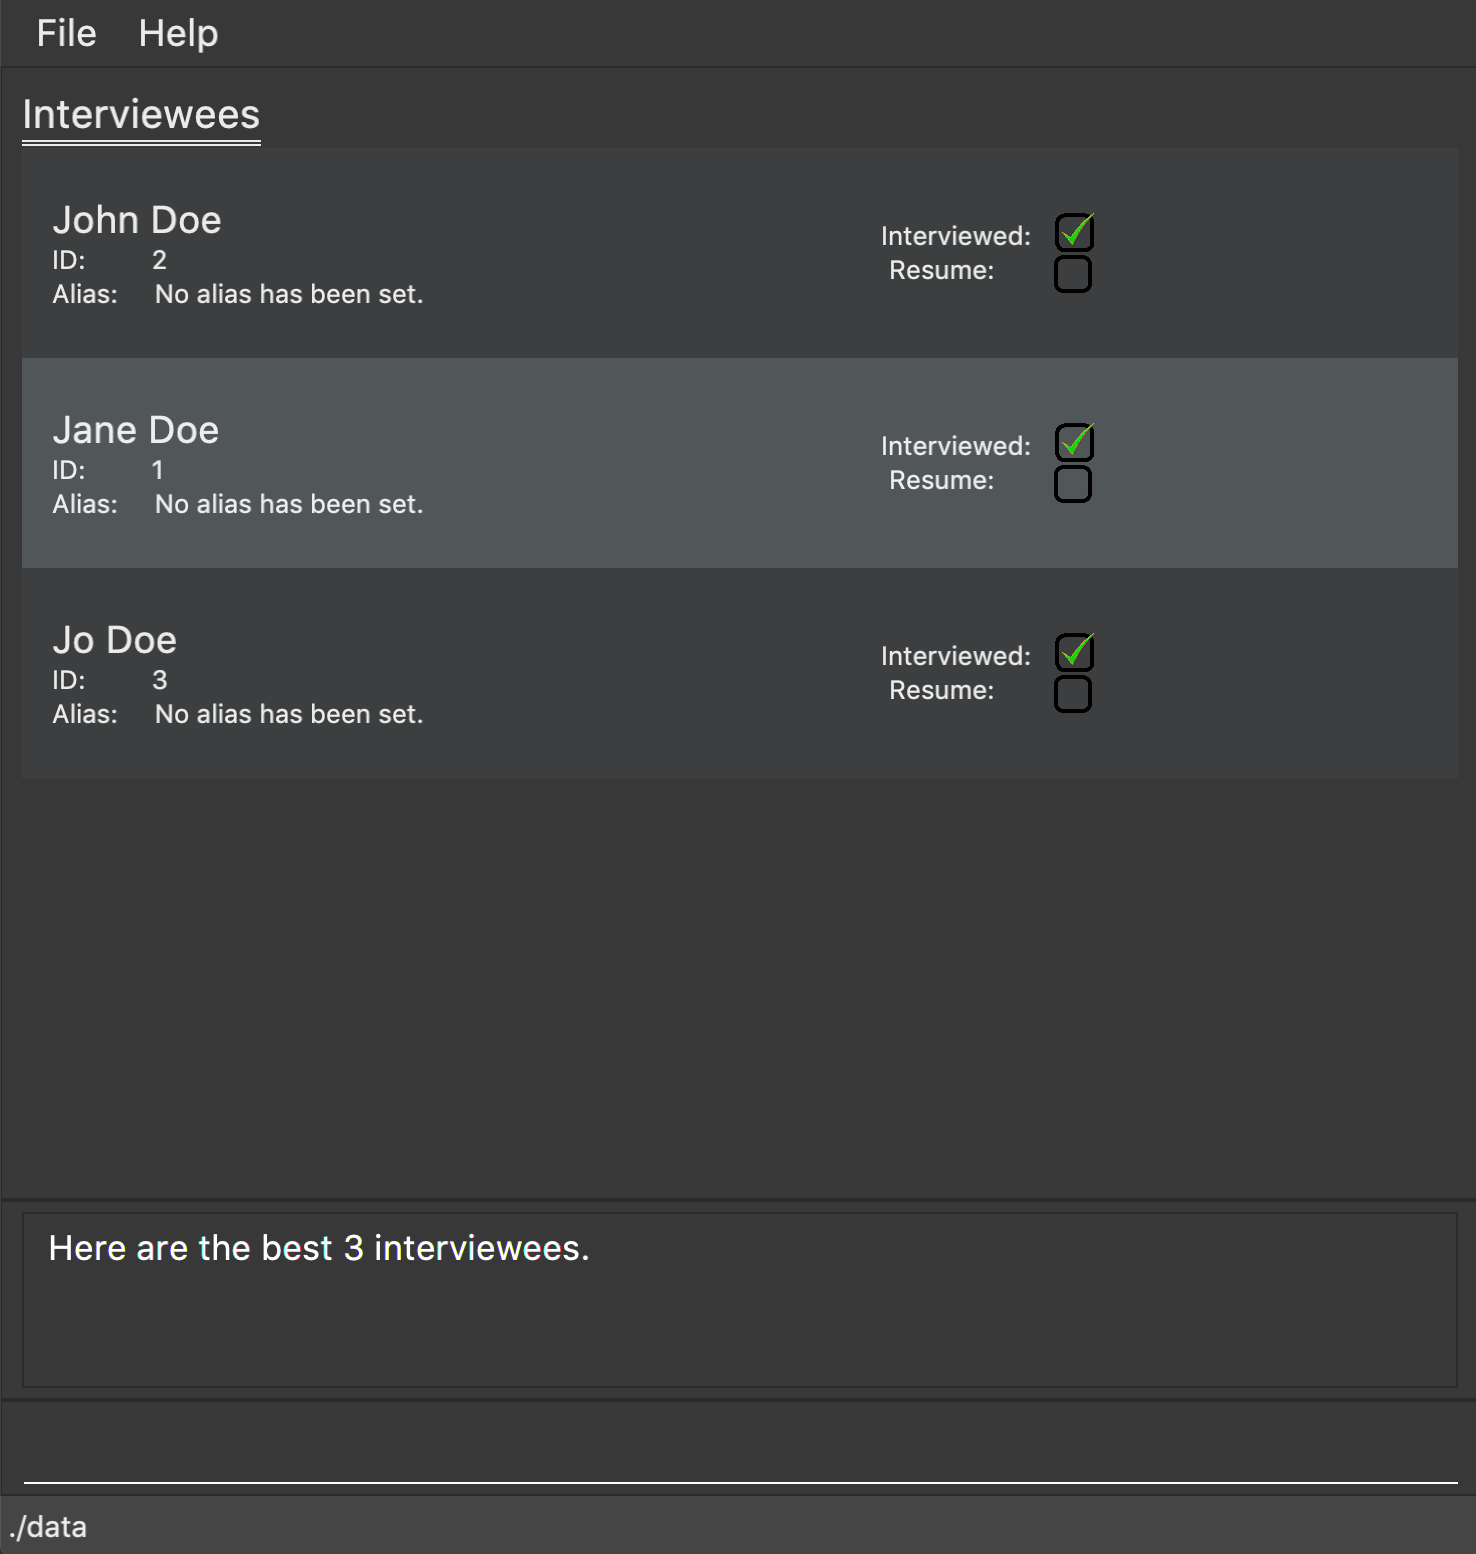
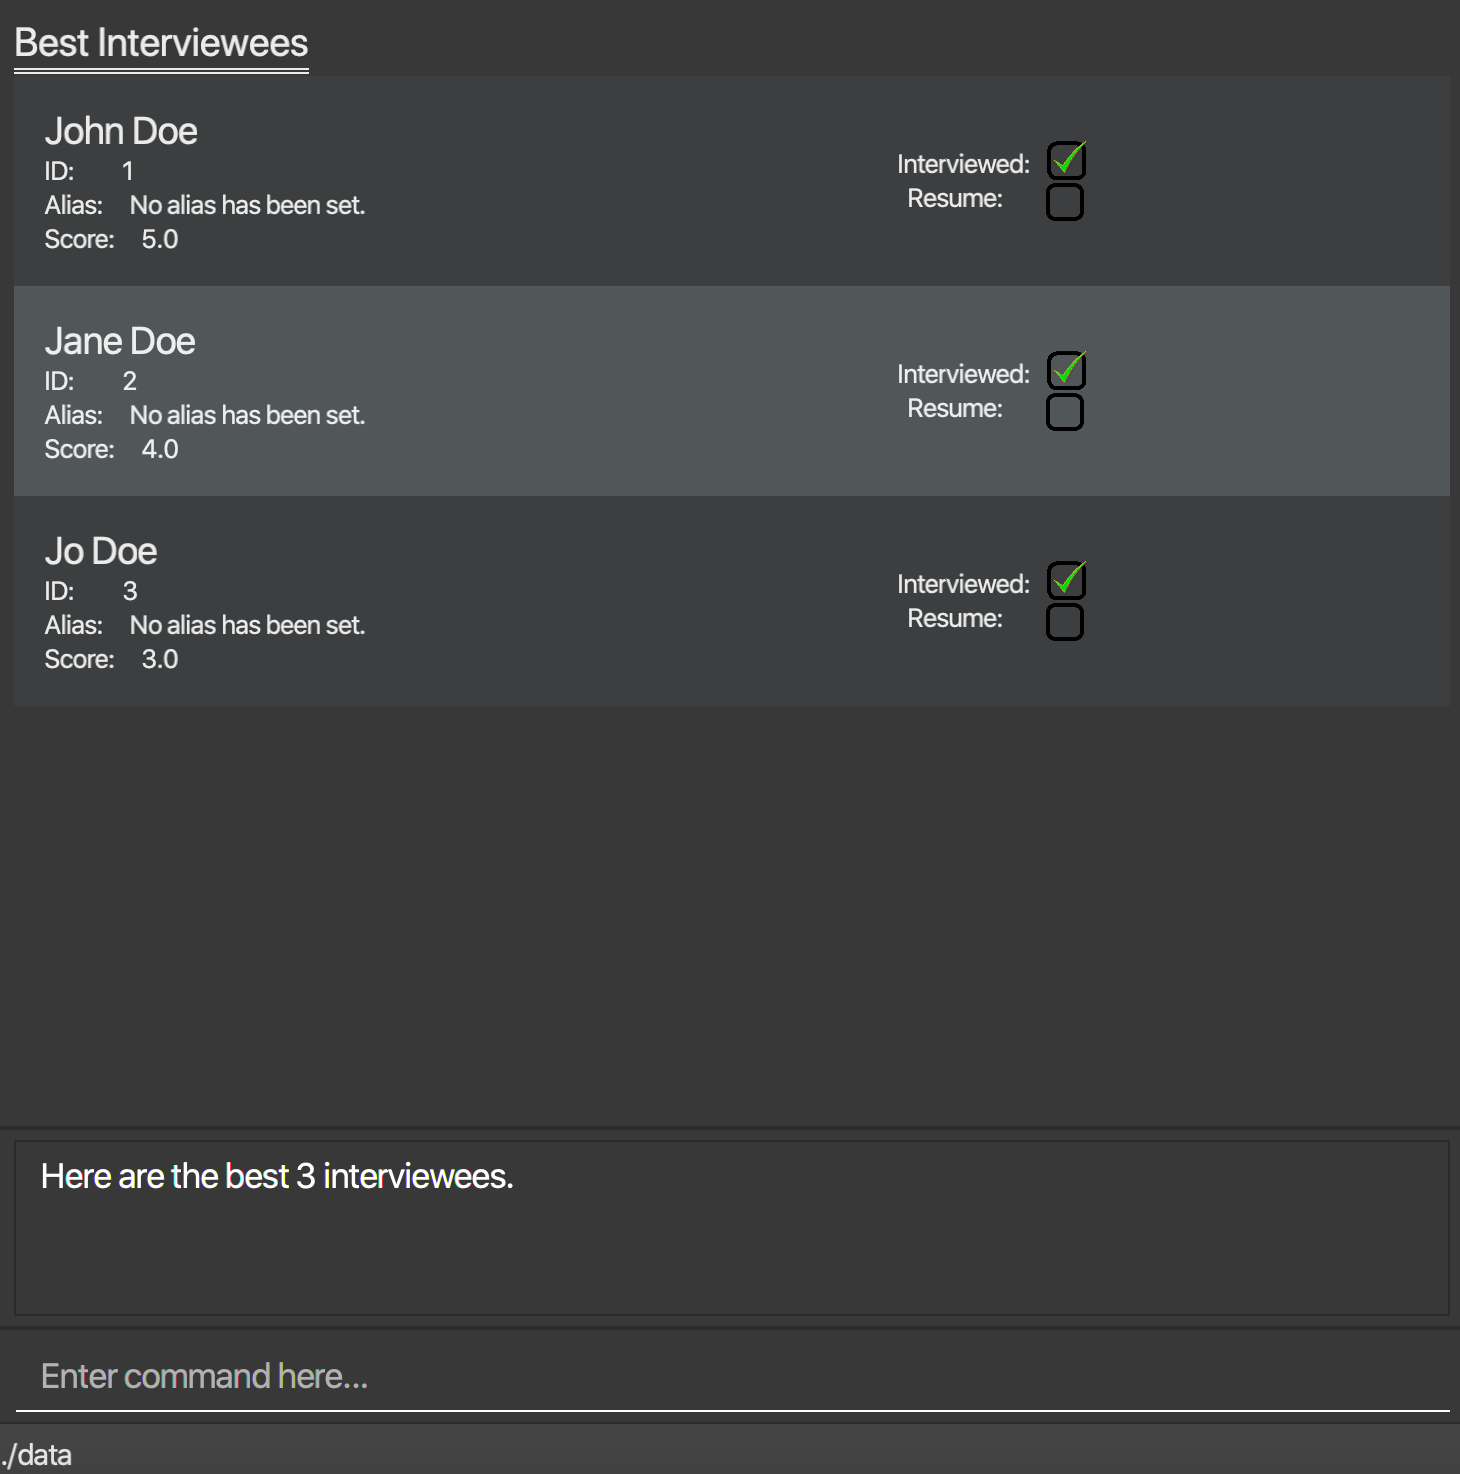
Rebuild pages at b1716265eca4d95410358d2055562b38ef95663a

Changed region(s): [[0.0, 0.0, 1.0, 0.4681], [0.0, 0.905, 0.9863, 0.9986], [0.0308, 0.7802, 0.4007, 0.8114]]

diff --git a/team/Weiichengg.html b/team/Weiichengg.html
@@ -1,3 +1,3 @@
 <!DOCTYPE html><html lang="en"><head><meta charset="UTF-8"><!--[if IE]><meta http-equiv="X-UA-Compatible" content="IE=edge"><![endif]--><meta name="viewport" content="width=device-width, initial-scale=1.0"><meta name="generator" content="Asciidoctor 1.5.6.1"><title>Untitled</title><link rel="stylesheet" href="./gh-pages.css">
 <link rel="stylesheet" href="https://cdnjs.cloudflare.com/ajax/libs/font-awesome/4.5.0/css/font-awesome.min.css">
-<link rel="stylesheet" href="./coderay-asciidoctor.css"></head><body class="article"><div id="seedu-header"><nav class="navbar navbar-lg navbar-light bg-lighter"><div class="container"><a class="navbar-brand" href="https://se-edu.github.io/"><img src="../images/SeEduLogo.png" alt="SE-EDU"></a><ul class="navbar-nav"><li class="nav-item"><a class="nav-link" href="https://se-edu.github.io/addressbook-level1">AB-1</a></li><li class="nav-item"><a class="nav-link" href="https://se-edu.github.io/addressbook-level2">AB-2</a></li><li class="nav-item"><a class="nav-link active" href="../index.html">AB-3</a></li><li class="nav-item"><a class="nav-link" href="https://se-edu.github.io/addressbook-level4">AB-4</a></li><li class="nav-item"><a class="nav-link" href="https://se-edu.github.io/collate">Collate</a></li><li class="nav-item"><a class="nav-link" href="https://se-edu.github.io/se-book">Book</a></li><li class="nav-item"><a class="nav-link" href="https://se-edu.github.io/learningresources">Resources</a></li></ul></div></nav></div><div id="site-header"><nav class="navbar navbar-light bg-light"><div class="container"><a class="navbar-brand" href="../index.html">AddressBook-Level3</a><ul class="navbar-nav"><li class="nav-item"><a class="nav-link" href="../UserGuide.html">User Guide</a></li><li class="nav-item"><a class="nav-link" href="../DeveloperGuide.html">Developer Guide</a></li><li class="nav-item"><a class="nav-link" href="../LearningOutcomes.html">LOs</a></li><li class="nav-item"><a class="nav-link" href="../AboutUs.html">About Us</a></li><li class="nav-item"><a class="nav-link" href="../ContactUs.html">Contact Us</a></li><li class="navitem"><a class="nav-link" href="https://github.com/se-edu/addressbook-level3"><span class="fa fa-github fa-lg" aria-hidden="true"></span>&nbsp;View on GitHub</a></li></ul></div></nav></div><div id="header"></div><div id="content"></div><div id="footer"><div class="container"><div id="footer-text">Last updated 2020-04-02 13:28:08 UTC</div></div></div></body></html>
+<link rel="stylesheet" href="./coderay-asciidoctor.css"></head><body class="article"><div id="seedu-header"><nav class="navbar navbar-lg navbar-light bg-lighter"><div class="container"><a class="navbar-brand" href="https://se-edu.github.io/"><img src="../images/SeEduLogo.png" alt="SE-EDU"></a><ul class="navbar-nav"><li class="nav-item"><a class="nav-link" href="https://se-edu.github.io/addressbook-level1">AB-1</a></li><li class="nav-item"><a class="nav-link" href="https://se-edu.github.io/addressbook-level2">AB-2</a></li><li class="nav-item"><a class="nav-link active" href="../index.html">AB-3</a></li><li class="nav-item"><a class="nav-link" href="https://se-edu.github.io/addressbook-level4">AB-4</a></li><li class="nav-item"><a class="nav-link" href="https://se-edu.github.io/collate">Collate</a></li><li class="nav-item"><a class="nav-link" href="https://se-edu.github.io/se-book">Book</a></li><li class="nav-item"><a class="nav-link" href="https://se-edu.github.io/learningresources">Resources</a></li></ul></div></nav></div><div id="site-header"><nav class="navbar navbar-light bg-light"><div class="container"><a class="navbar-brand" href="../index.html">AddressBook-Level3</a><ul class="navbar-nav"><li class="nav-item"><a class="nav-link" href="../UserGuide.html">User Guide</a></li><li class="nav-item"><a class="nav-link" href="../DeveloperGuide.html">Developer Guide</a></li><li class="nav-item"><a class="nav-link" href="../LearningOutcomes.html">LOs</a></li><li class="nav-item"><a class="nav-link" href="../AboutUs.html">About Us</a></li><li class="nav-item"><a class="nav-link" href="../ContactUs.html">Contact Us</a></li><li class="navitem"><a class="nav-link" href="https://github.com/se-edu/addressbook-level3"><span class="fa fa-github fa-lg" aria-hidden="true"></span>&nbsp;View on GitHub</a></li></ul></div></nav></div><div id="header"></div><div id="content"></div><div id="footer"><div class="container"><div id="footer-text">Last updated 2020-04-02 17:22:12 UTC</div></div></div></body></html>

diff --git a/team/mario7lorenzo.html b/team/mario7lorenzo.html
@@ -1,3 +1,3 @@
 <!DOCTYPE html><html lang="en"><head><meta charset="UTF-8"><!--[if IE]><meta http-equiv="X-UA-Compatible" content="IE=edge"><![endif]--><meta name="viewport" content="width=device-width, initial-scale=1.0"><meta name="generator" content="Asciidoctor 1.5.6.1"><title>Untitled</title><link rel="stylesheet" href="./gh-pages.css">
 <link rel="stylesheet" href="https://cdnjs.cloudflare.com/ajax/libs/font-awesome/4.5.0/css/font-awesome.min.css">
-<link rel="stylesheet" href="./coderay-asciidoctor.css"></head><body class="article"><div id="seedu-header"><nav class="navbar navbar-lg navbar-light bg-lighter"><div class="container"><a class="navbar-brand" href="https://se-edu.github.io/"><img src="../images/SeEduLogo.png" alt="SE-EDU"></a><ul class="navbar-nav"><li class="nav-item"><a class="nav-link" href="https://se-edu.github.io/addressbook-level1">AB-1</a></li><li class="nav-item"><a class="nav-link" href="https://se-edu.github.io/addressbook-level2">AB-2</a></li><li class="nav-item"><a class="nav-link active" href="../index.html">AB-3</a></li><li class="nav-item"><a class="nav-link" href="https://se-edu.github.io/addressbook-level4">AB-4</a></li><li class="nav-item"><a class="nav-link" href="https://se-edu.github.io/collate">Collate</a></li><li class="nav-item"><a class="nav-link" href="https://se-edu.github.io/se-book">Book</a></li><li class="nav-item"><a class="nav-link" href="https://se-edu.github.io/learningresources">Resources</a></li></ul></div></nav></div><div id="site-header"><nav class="navbar navbar-light bg-light"><div class="container"><a class="navbar-brand" href="../index.html">AddressBook-Level3</a><ul class="navbar-nav"><li class="nav-item"><a class="nav-link" href="../UserGuide.html">User Guide</a></li><li class="nav-item"><a class="nav-link" href="../DeveloperGuide.html">Developer Guide</a></li><li class="nav-item"><a class="nav-link" href="../LearningOutcomes.html">LOs</a></li><li class="nav-item"><a class="nav-link" href="../AboutUs.html">About Us</a></li><li class="nav-item"><a class="nav-link" href="../ContactUs.html">Contact Us</a></li><li class="navitem"><a class="nav-link" href="https://github.com/se-edu/addressbook-level3"><span class="fa fa-github fa-lg" aria-hidden="true"></span>&nbsp;View on GitHub</a></li></ul></div></nav></div><div id="header"></div><div id="content"></div><div id="footer"><div class="container"><div id="footer-text">Last updated 2020-04-02 13:28:08 UTC</div></div></div></body></html>
+<link rel="stylesheet" href="./coderay-asciidoctor.css"></head><body class="article"><div id="seedu-header"><nav class="navbar navbar-lg navbar-light bg-lighter"><div class="container"><a class="navbar-brand" href="https://se-edu.github.io/"><img src="../images/SeEduLogo.png" alt="SE-EDU"></a><ul class="navbar-nav"><li class="nav-item"><a class="nav-link" href="https://se-edu.github.io/addressbook-level1">AB-1</a></li><li class="nav-item"><a class="nav-link" href="https://se-edu.github.io/addressbook-level2">AB-2</a></li><li class="nav-item"><a class="nav-link active" href="../index.html">AB-3</a></li><li class="nav-item"><a class="nav-link" href="https://se-edu.github.io/addressbook-level4">AB-4</a></li><li class="nav-item"><a class="nav-link" href="https://se-edu.github.io/collate">Collate</a></li><li class="nav-item"><a class="nav-link" href="https://se-edu.github.io/se-book">Book</a></li><li class="nav-item"><a class="nav-link" href="https://se-edu.github.io/learningresources">Resources</a></li></ul></div></nav></div><div id="site-header"><nav class="navbar navbar-light bg-light"><div class="container"><a class="navbar-brand" href="../index.html">AddressBook-Level3</a><ul class="navbar-nav"><li class="nav-item"><a class="nav-link" href="../UserGuide.html">User Guide</a></li><li class="nav-item"><a class="nav-link" href="../DeveloperGuide.html">Developer Guide</a></li><li class="nav-item"><a class="nav-link" href="../LearningOutcomes.html">LOs</a></li><li class="nav-item"><a class="nav-link" href="../AboutUs.html">About Us</a></li><li class="nav-item"><a class="nav-link" href="../ContactUs.html">Contact Us</a></li><li class="navitem"><a class="nav-link" href="https://github.com/se-edu/addressbook-level3"><span class="fa fa-github fa-lg" aria-hidden="true"></span>&nbsp;View on GitHub</a></li></ul></div></nav></div><div id="header"></div><div id="content"></div><div id="footer"><div class="container"><div id="footer-text">Last updated 2020-04-02 17:22:12 UTC</div></div></div></body></html>

diff --git a/UserGuide.html b/UserGuide.html
@@ -905,6 +905,19 @@ The user can scroll up and down to see the rest of the remarks.</p>
 based on either a particular attribute, the average of all the
 attributes. You also can use a metric for scoring.</p>
 </div>
+<div class="admonitionblock tip">
+<table>
+<tr>
+<td class="icon">
+<i class="fa icon-tip" title="Tip"></i>
+</td>
+<td class="content">
+In case there are ties in terms of the score, e.g. if we would like to retrieve the best 5 interviewees,
+but the score between the fifth and the sixth interviewees, both interviewees will be shown.
+</td>
+</tr>
+</table>
+</div>
 <div class="paragraph">
 <p><strong>Command</strong></p>
 </div>
@@ -928,7 +941,7 @@ best 3 -a leadership</pre>
 <div class="paragraph">
 <p><em>Action</em>: Firstly, HireLah! will show top 1 interviewees in overall score.
 Then, it will show the top 2 interviewees based on their leadership score. Finally, it will
-show the top 3 interviewes based on the extremeDictatorship metric.</p>
+show the top 3 interviewees based on the extremeDictatorship metric.</p>
 </div>
 <div class="paragraph">
 <p><em>Output</em>:</p>
@@ -1227,4 +1240,4 @@ e.g. <code>best 5 -m extremeDictatorship</code></p>
 </ul>
 </div>
 </div>
-</div></div><div id="footer"><div class="container"><div id="footer-text">Last updated 2020-04-02 13:28:08 UTC</div></div></div></body></html>
+</div></div><div id="footer"><div class="container"><div id="footer-text">Last updated 2020-04-02 17:22:12 UTC</div></div></div></body></html>

diff --git a/tutorials/RemovingFields.html b/tutorials/RemovingFields.html
@@ -175,4 +175,4 @@ While keeping the <code>address</code> field in the json files does not cause th
 <p>You can go through each individual <code>json</code> file and manually remove the <code>address</code> field.</p>
 </div>
 </div>
-</div></div><div id="footer"><div class="container"><div id="footer-text">Last updated 2020-04-02 13:28:08 UTC</div></div></div></body></html>
+</div></div><div id="footer"><div class="container"><div id="footer-text">Last updated 2020-04-02 17:22:12 UTC</div></div></div></body></html>

diff --git a/Testing.html b/Testing.html
@@ -90,4 +90,4 @@ e.g. <code>seedu.address.logic.LogicManagerTest</code></p>
 <div class="title">Figure 1. <code>Accessibility</code> permission is granted to <code>IntelliJ IDEA</code></div>
 </div>
 </div>
-</div></div><div id="footer"><div class="container"><div id="footer-text">Last updated 2020-04-02 13:28:08 UTC</div></div></div></body></html>
+</div></div><div id="footer"><div class="container"><div id="footer-text">Last updated 2020-04-02 17:22:12 UTC</div></div></div></body></html>

diff --git a/tutorials/AddRemark.html b/tutorials/AddRemark.html
@@ -616,4 +616,4 @@ In this case, <code>CommandTestUtil#assertCommandSuccess</code> is the best fit 
 <p>This concludes the tutorial for adding a new <code>Command</code> to AddressBook.</p>
 </div>
 </div>
-</div></div><div id="footer"><div class="container"><div id="footer-text">Last updated 2020-04-02 13:28:08 UTC</div></div></div></body></html>
+</div></div><div id="footer"><div class="container"><div id="footer-text">Last updated 2020-04-02 17:22:12 UTC</div></div></div></body></html>

diff --git a/team/CornCobs.html b/team/CornCobs.html
@@ -382,4 +382,4 @@ If the <code>currentStatePointer</code> is at index <code>addressBookStateList.s
 <p><em>{Optionally, you may include other projects in your portfolio.}</em></p>
 </div>
 </div>
-</div></div><div id="footer"><div class="container"><div id="footer-text">Last updated 2020-04-02 13:28:08 UTC</div></div></div></body></html>
+</div></div><div id="footer"><div class="container"><div id="footer-text">Last updated 2020-04-02 17:22:12 UTC</div></div></div></body></html>

diff --git a/team/agnesnatasya.html b/team/agnesnatasya.html
@@ -381,4 +381,4 @@ If the <code>currentStatePointer</code> is at index <code>addressBookStateList.s
 <p><em>{Optionally, you may include other projects in your portfolio.}</em></p>
 </div>
 </div>
-</div></div><div id="footer"><div class="container"><div id="footer-text">Last updated 2020-04-02 13:28:08 UTC</div></div></div></body></html>
+</div></div><div id="footer"><div class="container"><div id="footer-text">Last updated 2020-04-02 17:22:12 UTC</div></div></div></body></html>

diff --git a/team/bscrow.html b/team/bscrow.html
@@ -381,4 +381,4 @@ If the <code>currentStatePointer</code> is at index <code>addressBookStateList.s
 <p><em>{Optionally, you may include other projects in your portfolio.}</em></p>
 </div>
 </div>
-</div></div><div id="footer"><div class="container"><div id="footer-text">Last updated 2020-04-02 13:28:08 UTC</div></div></div></body></html>
+</div></div><div id="footer"><div class="container"><div id="footer-text">Last updated 2020-04-02 17:22:12 UTC</div></div></div></body></html>

diff --git a/team/johndoe.html b/team/johndoe.html
@@ -381,4 +381,4 @@ If the <code>currentStatePointer</code> is at index <code>addressBookStateList.s
 <p><em>{Optionally, you may include other projects in your portfolio.}</em></p>
 </div>
 </div>
-</div></div><div id="footer"><div class="container"><div id="footer-text">Last updated 2020-04-02 13:28:08 UTC</div></div></div></body></html>
+</div></div><div id="footer"><div class="container"><div id="footer-text">Last updated 2020-04-02 17:22:12 UTC</div></div></div></body></html>

diff --git a/ContactUs.html b/ContactUs.html
@@ -12,4 +12,4 @@
 <p><strong>Email us</strong> : You can also reach us at <code>e0369915 [at] gmail.com</code></p>
 </li>
 </ul>
-</div></div><div id="footer"><div class="container"><div id="footer-text">Last updated 2020-04-02 13:28:08 UTC</div></div></div></body></html>
+</div></div><div id="footer"><div class="container"><div id="footer-text">Last updated 2020-04-02 17:22:12 UTC</div></div></div></body></html>

diff --git a/LearningOutcomes.html b/LearningOutcomes.html
@@ -474,4 +474,4 @@ of storages, but different number of storages (e.g. save to both a text file and
 </div>
 </div>
 </div>
-</div></div><div id="footer"><div class="container"><div id="footer-text">Last updated 2020-04-02 13:28:08 UTC</div></div></div></body></html>
+</div></div><div id="footer"><div class="container"><div id="footer-text">Last updated 2020-04-02 17:22:12 UTC</div></div></div></body></html>
